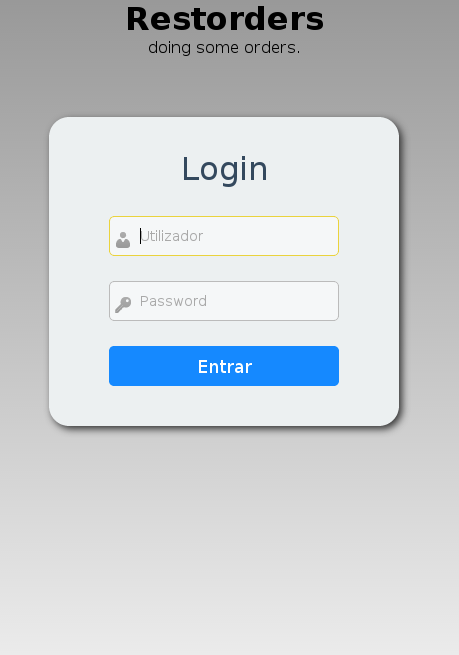
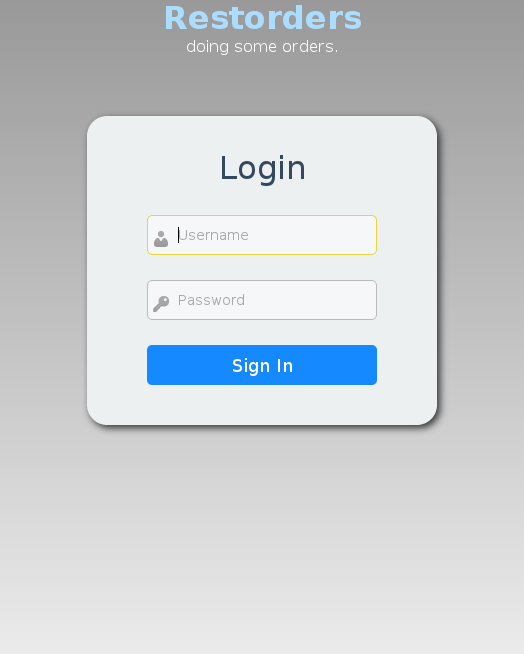
edit few colors, separate credentials, more adjustments

diff --git a/styled.css b/styled.css
@@ -3,18 +3,20 @@
   margin: 0;
   padding: 0; }
 
-html {
+html { height: 100% }
+
+#content {
   background: #E0E0E0;
   font-family: 'Helvetica Neue', Arial, Sans-Serif;
-    background-color: #BBBBBB;
-    background-image: -webkit-gradient(linear, left top, left bottom, from(#999999), to(#EBEBEB));
-    background-image: -webkit-linear-gradient(top, #999999, #EBEBEB);
-    background-image: -moz-linear-gradient(top, #999999, #EBEBEB);
-    background-image: -ms-linear-gradient(top, #999999, #EBEBEB);
-    background-image: -o-linear-gradient(top, #999999, #EBEBEB);
-    height: 100% }
+  background-color: #BBBBBB;
+  height: auto;
+  background-image: -webkit-gradient(linear, left top, left bottom, from(#999999), to(#EBEBEB));
+  background-image: -webkit-linear-gradient(top, #999999, #EBEBEB);
+  background-image: -moz-linear-gradient(top, #999999, #EBEBEB);
+  background-image: -ms-linear-gradient(top, #999999, #EBEBEB);
+  background-image: -o-linear-gradient(top, #999999, #EBEBEB); }
 
-html .login-wrap {
+.login-wrap {
   position: relative;
   top: 60px;
   margin: 0 auto;
@@ -24,31 +26,32 @@ html .login-wrap {
   box-shadow: 3px 3px 10px #333;
   padding: 15px; }
 
-html .login-wrap h2 {
+.login-wrap h2 {
   text-align: center;
   font-weight: 200;
   font-size: 2em;
   margin-top: 10px;
   color: #34495e; }
 
-html .login-wrap .form {
-    padding-top: 20px;
-    margin-left: auto;
-    margin-right: auto;
-    width: 90%; }
+.login-wrap .form {
+  padding-top: 20px;
+  margin-left: auto;
+  margin-right: auto;
+  width: 90%; }
 
 #inputs input {
-	background: #F5F7F8 url(images/login-usr-pw.png) no-repeat;
-	padding-left: 30px; }
+  background: #F5F7F8 url(images/login-usr-pw.png) no-repeat;
+  padding-left: 30px; }
 
 fieldset {
-    border: 0;
-    padding: 0;
-    margin: 0; }
+  border: 0;
+  padding: 0;
+  margin: 0; }
 
-html .login-wrap .form input[type="text"],
-html .login-wrap .form input[type="password"],
-html .login-wrap .form button {
+.login-wrap .form input[type="text"],
+.login-wrap .form input[type="password"],
+
+.login-wrap .form button {
   width: 80%;
   margin-left: 10%;
   margin-bottom: 25px;
@@ -57,25 +60,27 @@ html .login-wrap .form button {
   outline: 0;
   -moz-outline-style: none; }
 
-html .login-wrap .form input[type="text"],
-html .login-wrap .form input[type="password"] {
+.login-wrap .form input[type="text"],
+
+.login-wrap .form input[type="password"] {
   border: 1px solid #bbb;
   padding: 0 0 0 10px;
   font-size: 14px; }
 
-html .login-wrap .form input[type="text"]:focus,
-html .login-wrap .form input[type="password"]:focus {
+.login-wrap .form input[type="text"]:focus,
+
+.login-wrap .form input[type="password"]:focus {
   border: 1px solid #EAD33D; }
 
-html .login-wrap .form a {
+.login-wrap .form a {
   text-align: center;
   font-size: 10px;
   color: #3498db; }
 
-html .login-wrap .form a p {
+.login-wrap .form a p {
   padding-bottom: 10px; }
 
-html .login-wrap .form button {
+.login-wrap .form button {
   background: #1589FF;
   border: none;
   color: white;
@@ -84,20 +89,21 @@ html .login-wrap .form button {
   cursor: pointer;
   transition: box-shadow .4s ease; }
 
-html .login-wrap .form button:hover {
-  box-shadow: 1px 1px 5px #555; }
-html .login-wrap .form button:active {
-  box-shadow: 1px 1px 7px #222; 
-}
+.login-wrap .form button:hover { box-shadow: 1px 1px 5px #555; }
 
-.title { text-align: center; }
-.subtitle { text-align: center; }
+.login-wrap .form button:active { box-shadow: 1px 1px 7px #222; }
 
-h2 {    border-radius: 5px 5px 0 0;
-	color: #fff;
-	font-size: 14px;
-	padding: 8px;
-	text-align: center; }
+.title { text-align: center;
+         color: #AADDFF; }
+
+.subtitle { text-align: center;
+            color: #fff; }
+
+h2 { border-radius: 5px 5px 0 0;
+     color: #fff;
+     font-size: 14px;
+     padding: 8px;
+     text-align: center; }
 
 #myusername { background-position: 5px -2px !important; }
 #mypassword { background-position: 5px -52px !important; }
@@ -107,4 +113,19 @@ color: #3399FF;
 font-weight: bold;
 text-align: center;
 width: 100%; }
+
+.topbar {
+  font-family: 'Helvetica Neue', Sans-Serif, Arial;
+  text-align: center;
+  color: #ffffff;  
+  height: 6%
+  background-image: -webkit-gradient(linear, left bottom, right top, color-stop(0.17, #1C71AD), color-stop(0.52, #0669BF), color-stop(1, #0E86F5), color-stop(1, #003461), color-stop(1, #0F72BD) );
+  background-image: -webkit-linear-gradient(left top, #1C71AD 17%, #0669BF 52%, #0E86F5 100%, #003461 100%, #0F72BD 100%);
+  background-image: -moz-linear-gradient(left top, #1C71AD 17%, #0669BF 52%, #0E86F5 100%, #003461 100%, #0F72BD 100%);
+  background-image: -o-linear-gradient(left top, #1C71AD 17%, #0669BF 52%, #0E86F5 100%, #003461 100%, #0F72BD 100%);
+  background-image: -ms-linear-gradient(left top, #1C71AD 17%, #0669BF 52%, #0E86F5 100%, #003461 100%, #0F72BD 100%);
+  background-image: linear-gradient(to left top, #1C71AD 17%, #0669BF 52%, #0E86F5 100%, #003461 100%, #0F72BD 100%); }
+
+.main { background: #ecf0f1;
+	padding: 10px 0 50px 50px }
 

diff --git a/index.php b/index.php
@@ -1,11 +1,7 @@
 <?php
 //error_reporting(E_ALL);
 //ini_set('display_errors', 1);
-$host = "localhost"; 	  // host
-$dbusername = "restorders"; // mysql username
-$dbpassword = "teste"; // mysql password
-$dbname = "restordersdb"; // database name
-$tbname = "users";        // table name
+require 'data.php';
 
 session_start();
 $message = "";
@@ -43,8 +39,7 @@ if(isset($_SESSION["id"])) { header("Location: dashboard.php"); }
   <title>Restorders</title>
 </head>
 
-<body>
-
+<body id="content">
 <h1 class="title">Restorders</h1>
 <p class="subtitle">doing some orders.</p>
 
@@ -55,7 +50,7 @@ if(isset($_SESSION["id"])) { header("Location: dashboard.php"); }
       <fieldset id="inputs">
         <input id="myusername" name="myusername" type="text" placeholder="Username" autofocus required />
         <input id="mypassword" name="mypassword" type="password" placeholder="Password" required />
-        <button>Entrar</button>
+        <button>Sign In</button>
       </fieldset>
     </div>
     <div class="message"><?php if($message != "") { echo $message; } ?></div>

diff --git a/dashboard.php b/dashboard.php
@@ -8,14 +8,14 @@
 </head>
 
 <body>
-
-<div class="dashboard">
-  <h1>Dashboard</h1>
-  <?php if($_SESSION["username"]) { ?>
-  Welcome <?php echo $_SESSION["username"]; ?>.<br><br>
-  <a href="logout.php" title="Logout">Logout</a>
-  <?php } ?>
-</div>
+  <div class="topbar">
+    <h1>Dashboard</h1>
+  </div>
+  <div class="main">
+    <?php if($_SESSION["username"]) { ?>
+      Welcome <?php echo $_SESSION["username"]; ?> ! <a href="logout.php" title="Logout">(Logout)</a>
+    <?php } ?>
+  </div>
 
 </body>
 </html>

diff --git a/data.php b/data.php
@@ -1,0 +1,7 @@
+<?php
+  $host = "localhost"; 	  // host
+  $dbusername = "restorders"; // mysql username
+  $dbpassword = "teste"; // mysql password
+  $dbname = "restordersdb"; // database name
+  $tbname = "users";        // table name
+?>
